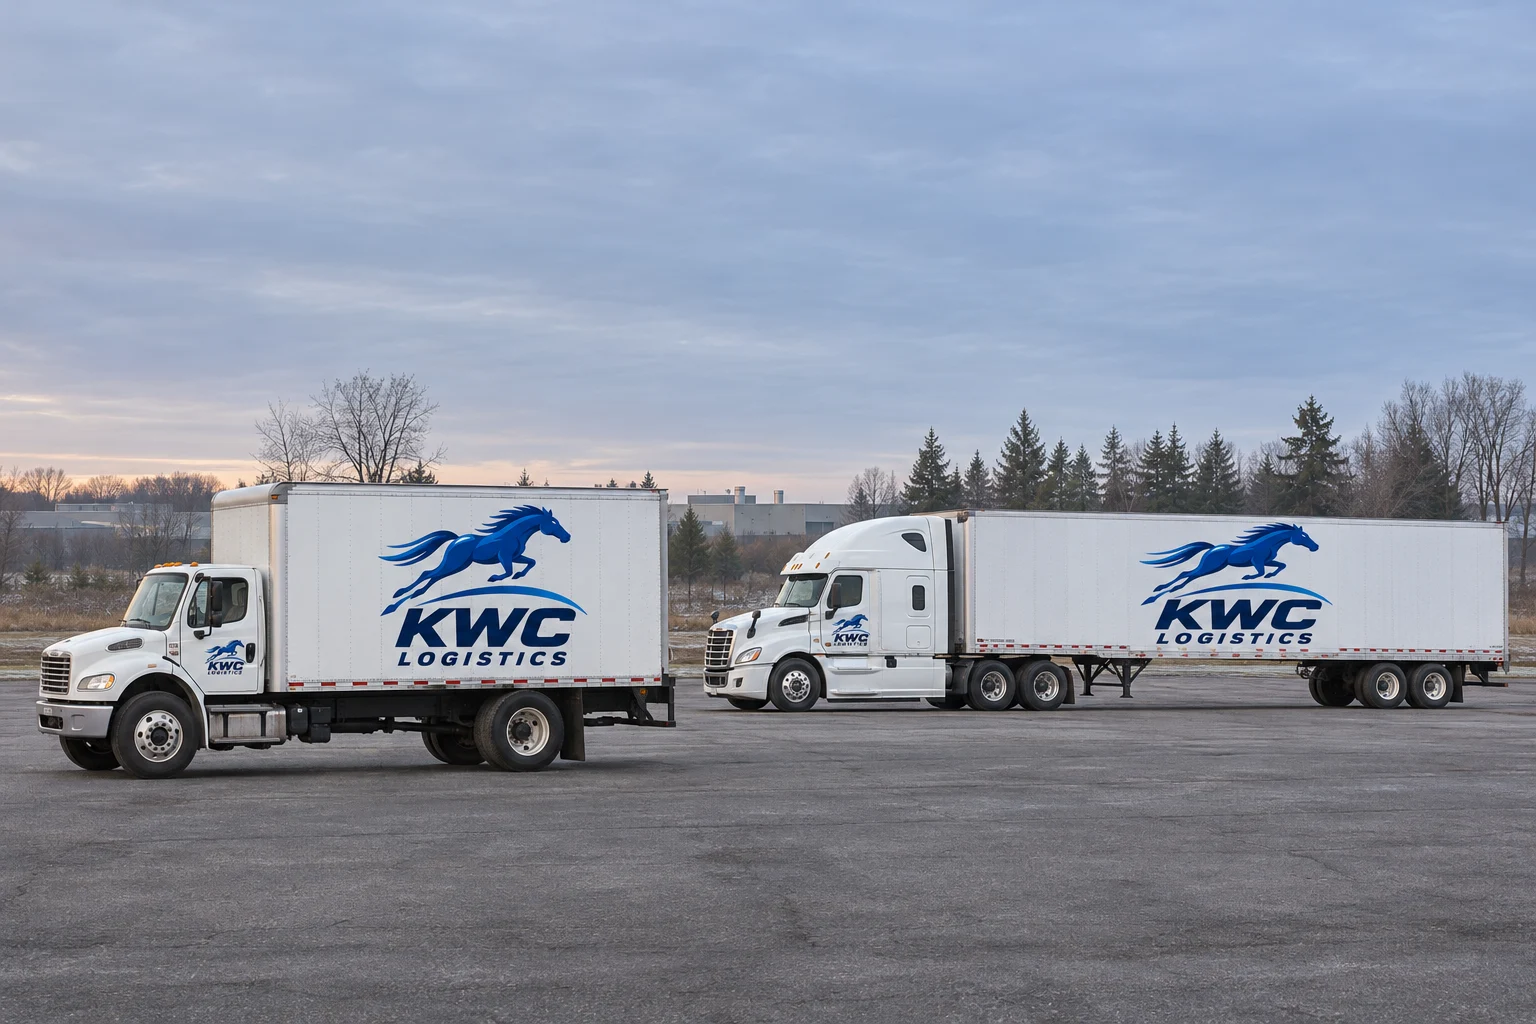
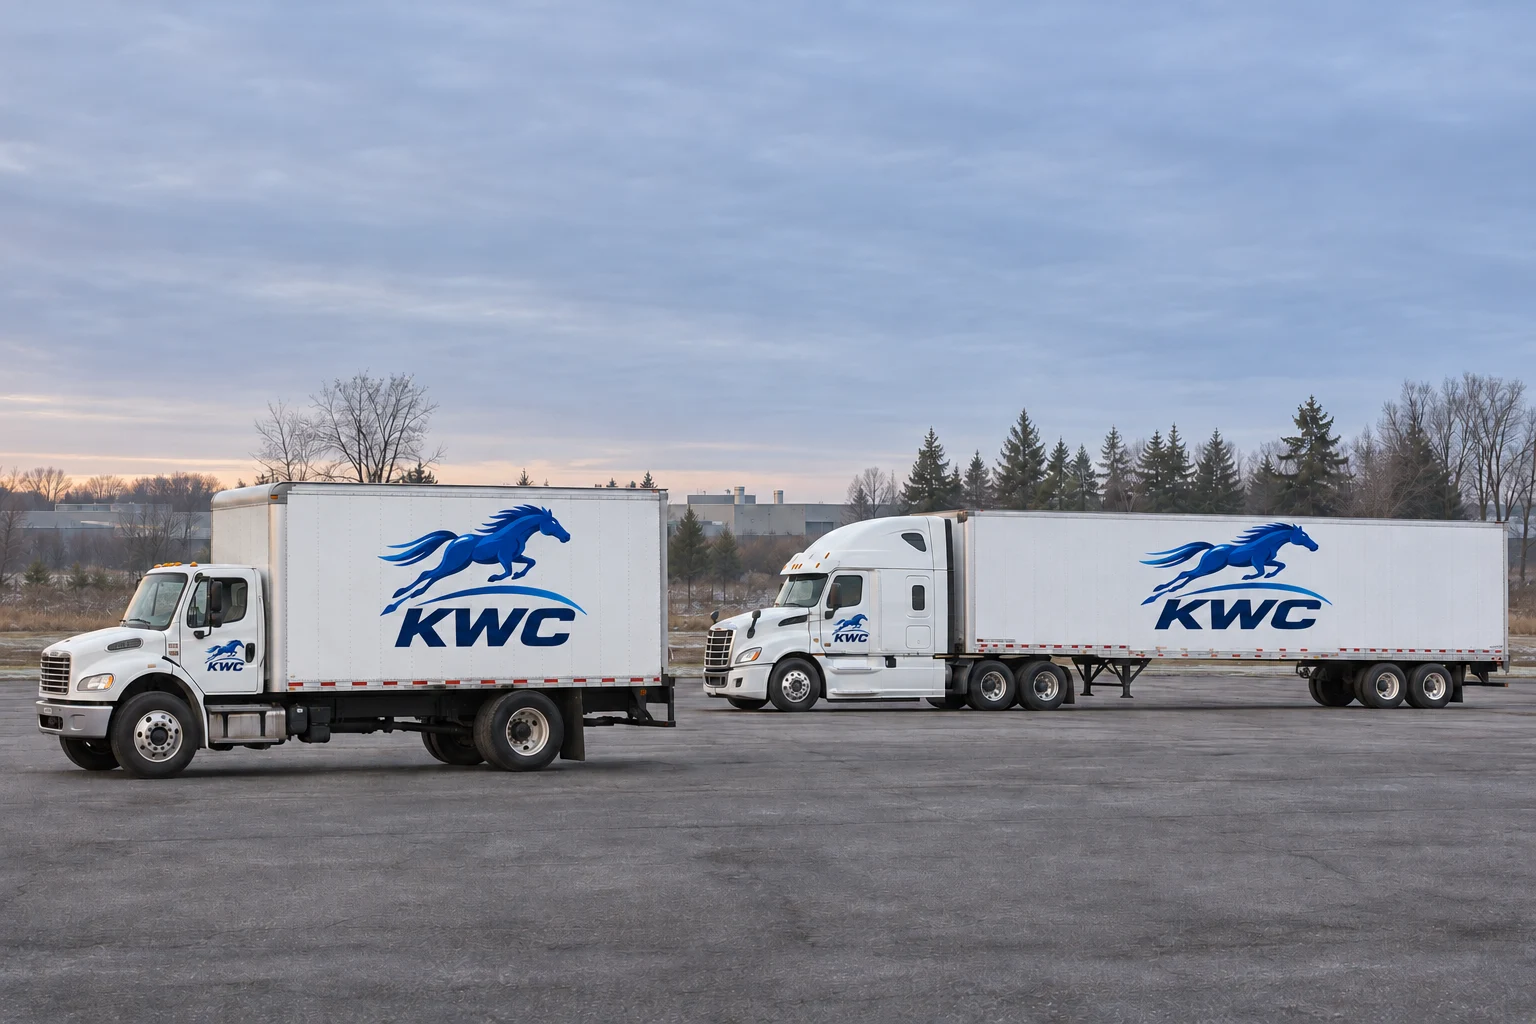
Use the KWC horse and initials on the vehicle decals

diff --git a/app/page.tsx b/app/page.tsx
@@ -42,7 +42,7 @@ export default function Home() {
           </div>
         </div>
         <div className="kwc-front-media">
-          <Image src="/images/kwc-branded-trucks-yard.webp" alt="Freightliner straight truck and dry van trailer with large KWC Logistics blue horse branding" fill priority sizes="(max-width: 900px) 100vw, 62vw" className="kwc-front-photo" />
+          <Image src="/images/kwc-branded-trucks-yard.webp" alt="Freightliner straight truck and dry van trailer with large KWC blue horse branding" fill priority sizes="(max-width: 900px) 100vw, 62vw" className="kwc-front-photo" />
         </div>
       </section>
 
